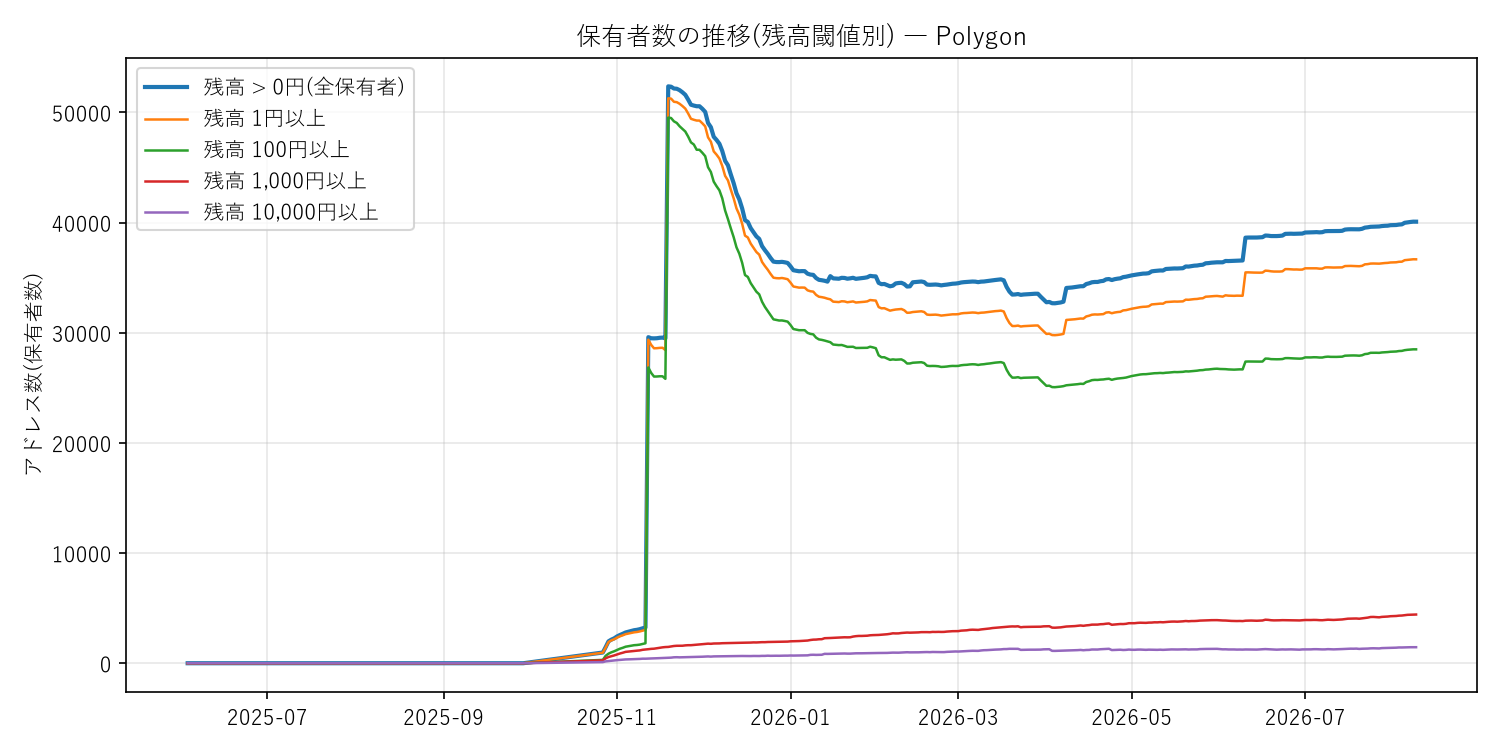
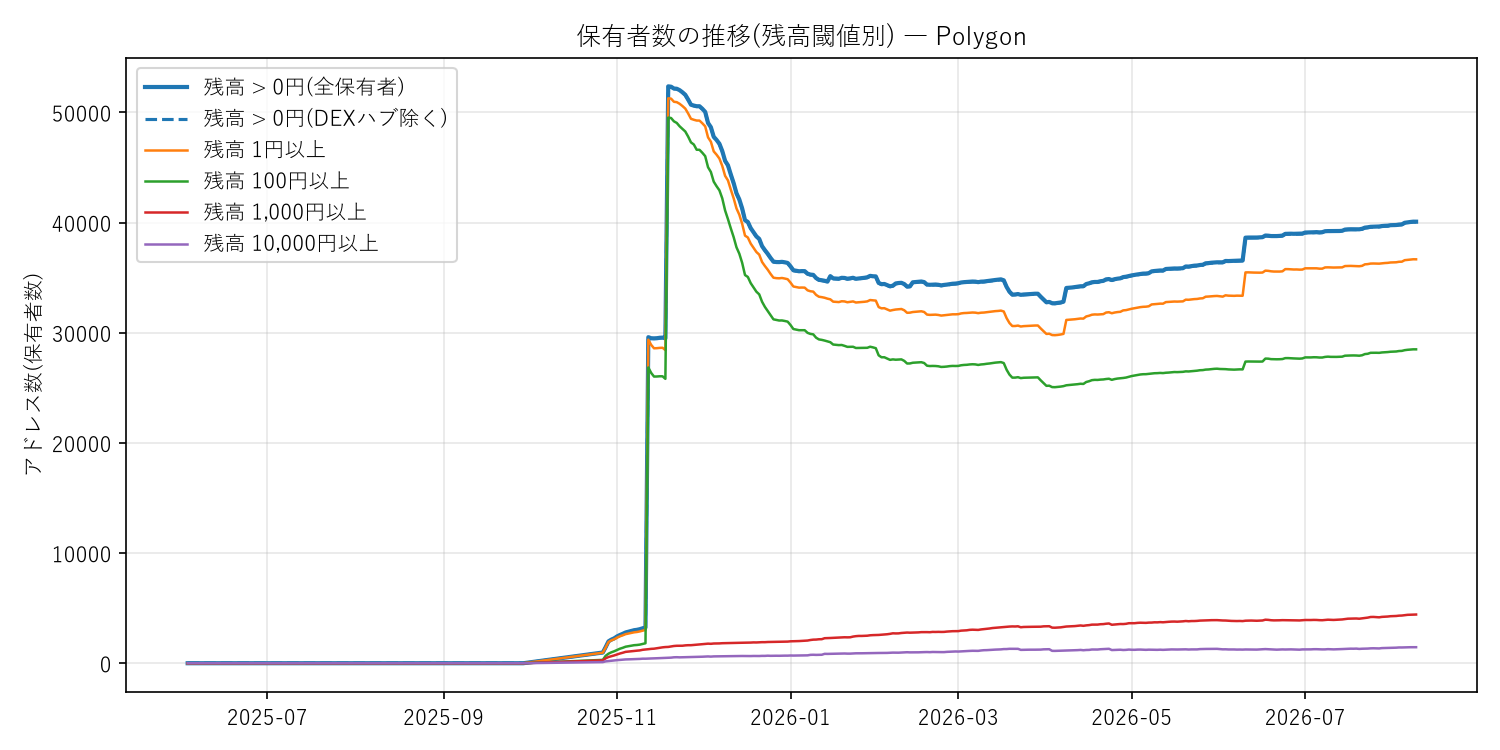
ダッシュボード・グラフにDEXハブ除外(_ex_hub)版を併記
これまでindex.html/analyze.pyはいずれも無印カラム(DEXハブ含む)
のみを参照しており、DEXハブ除外の変更が表示に反映されていな
かった。トグルUIは実装コストが高いため、まずは軽量な対応として
主要指標に限り両系列を併記する形にした。

- analyze.py: 保有者数(図01)・新規獲得/離脱(図02)・集中度(図05)・
  流通量(図06)・アクティブアドレス数(図07)に、無印(実線)と
  DEXハブ除外版(同色破線)を重ねて表示
- index.html: スナップショット欄の「流通量」「ホルダー数」に
  DEXハブ除外版を括弧書きで補足表示
- panel_builder.py: build_summary()がcirculating_supply_ex_hub /
  holders_gt0_ex_hubをsummary_{scope}.jsonに出力するよう対応

あわせて、図03・04(保有階層別構成比)でc.startswith("n_")/
"val_"が新設した_ex_hub列も誤って拾い、10系列が混在して比率が
壊れていたバグを修正(無印5系列のみに限定)。

Changed region(s): [[0.092, 0.1227, 0.3067, 0.3373], [0.092, 0.1533, 0.1227, 0.2453]]

diff --git a/index.html b/index.html
@@ -219,6 +219,11 @@ function wowHtml(pct) {
   return `<span class="sub ${cls}">先週比: ${sign}${v.toFixed(1)}%</span>`;
 }
 
+function exHubHtml(value, fmtFn) {
+  if (value === null || value === undefined) return "";
+  return `<div class="sub" style="color:var(--muted)">DEXハブ除く: ${fmtFn(value)}</div>`;
+}
+
 function statTile(label, value, sub, title) {
   return `<div class="stat" title="${title || ""}">
     <div class="label">${label}</div>
@@ -261,12 +266,14 @@ async function render(scope) {
     asofEl.textContent = `最終データ日: ${s.date}`;
 
     statsEl.innerHTML = [
-      statTile("流通量", fmtYen(s.circulating_supply), wowHtml(s.circulating_supply_wow_pct),
-                "今、実際に出回っているJPYCの総量(発行量−償還量)"),
+      statTile("流通量", fmtYen(s.circulating_supply),
+                wowHtml(s.circulating_supply_wow_pct) + exHubHtml(s.circulating_supply_ex_hub, fmtYen),
+                "今、実際に出回っているJPYCの総量(発行量−償還量)。「DEXハブ除く」はDEXルーター/プール等(取引の中継点、実ユーザーではない)自体の保有分を除いた値"),
       statTile("累計発行量", fmtYen(s.cumulative_mint_volume), "",
                 "これまでに発行されたJPYCの合計額(償還分を含む)"),
-      statTile("ホルダー数 (>0円)", fmtInt(s.holders_gt0), wowHtml(s.holders_gt0_wow_pct),
-                "1円でもJPYCを持っているアドレスの数"),
+      statTile("ホルダー数 (>0円)", fmtInt(s.holders_gt0),
+                wowHtml(s.holders_gt0_wow_pct) + exHubHtml(s.holders_gt0_ex_hub, fmtInt),
+                "1円でもJPYCを持っているアドレスの数。「DEXハブ除く」はDEXルーター/プール等自体を除いた実ユーザー数"),
       statTile("うち >=100円", fmtInt(s.holders_ge100), "", "残高100円以上のアドレス数(ごく少額のダストを除く)"),
       statTile("うち >=1,000円", fmtInt(s.holders_ge1000), "", "残高1,000円以上のアドレス数"),
       statTile("うち >=1万円", fmtInt(s.holders_ge10000), "", "残高1万円以上のアドレス数"),

diff --git a/analyze.py b/analyze.py
@@ -153,7 +153,10 @@ def main():
 
     # 1. ホルダー数(ダスト感度バンド) — ダスト保有者を除いた実質的な保有者数の分解
     fig, ax = plt.subplots(figsize=(10, 5))
-    ax.plot(p.date, p.holders_gt0, label="残高 > 0円(全保有者)", lw=2)
+    line, = ax.plot(p.date, p.holders_gt0, label="残高 > 0円(全保有者)", lw=2)
+    if "holders_gt0_ex_hub" in p:
+        ax.plot(p.date, p.holders_gt0_ex_hub, label="残高 > 0円(DEXハブ除く)",
+                lw=1.5, ls="--", color=line.get_color())
     for t in DUST_THRESHOLDS:
         col = f"holders_ge{int(t)}"
         if col in p:
@@ -163,19 +166,26 @@ def main():
     annotate_events(ax, events, x_min, x_max)
     save(fig, "01_holders_dust_sensitivity.png", fig_dir)
 
-    # 2. 新規獲得 vs 離脱(7日移動平均)
+    # 2. 新規獲得 vs 離脱(7日移動平均、実線=全体、破線=DEXハブ除く)
     fig, ax = plt.subplots(figsize=(10, 5))
-    ax.plot(p.date, p.new_addresses.rolling(7).mean(), label="新規獲得(7日移動平均)")
-    ax.plot(p.date, p.zeroed_addresses.rolling(7).mean(), label="離脱(7日移動平均)")
-    ax.plot(p.date, p.resurrected_addresses.rolling(7).mean(),
-            label="再保有(7日移動平均)", alpha=.7)
+    for col, col_ex, label, kw in [
+        ("new_addresses", "new_addresses_ex_hub", "新規獲得(7日移動平均)", {}),
+        ("zeroed_addresses", "zeroed_addresses_ex_hub", "離脱(7日移動平均)", {}),
+        ("resurrected_addresses", "resurrected_addresses_ex_hub", "再保有(7日移動平均)", {"alpha": .7}),
+    ]:
+        line, = ax.plot(p.date, p[col].rolling(7).mean(), label=label, **kw)
+        if col_ex in p:
+            ax.plot(p.date, p[col_ex].rolling(7).mean(), label=f"{label.replace('(7日移動平均)','')}(DEXハブ除く、7日移動平均)",
+                    lw=1.2, ls="--", color=line.get_color())
     ax.set_title(f"新規獲得アドレス数と離脱アドレス数の推移 ― {scope_label}")
     ax.set_ylabel("アドレス数/日"); ax.legend(); ax.grid(alpha=.3)
     annotate_events(ax, events, x_min, x_max)
     save(fig, "02_new_vs_churn.png", fig_dir)
 
     # 3. 保有分布(ホルダー数構成比)の推移
-    bucket_cols = [c for c in p.columns if c.startswith("n_")]
+    # "n_"で始まる列にはDEXハブ除外版(_ex_hubサフィックス)も含まれるため、
+    # 無印(全体)の5系列だけに絞る。
+    bucket_cols = [c for c in p.columns if c.startswith("n_") and not c.endswith("_ex_hub")]
     shares = p[bucket_cols].div(p["holders_gt0"], axis=0)
     fig, ax = plt.subplots(figsize=(10, 5))
     ax.stackplot(p.date, [shares[c] for c in bucket_cols],
@@ -186,7 +196,7 @@ def main():
     save(fig, "03_holder_buckets.png", fig_dir)
 
     # 4. 金額ベースの分布(どの層が価値を保有しているか)
-    val_cols = [c for c in p.columns if c.startswith("val_")]
+    val_cols = [c for c in p.columns if c.startswith("val_") and not c.endswith("_ex_hub")]
     vshares = p[val_cols].div(p["circulating_supply"], axis=0)
     fig, ax = plt.subplots(figsize=(10, 5))
     ax.stackplot(p.date, [vshares[c] for c in val_cols],
@@ -196,11 +206,17 @@ def main():
     ax.legend(loc="lower left", fontsize=8); ax.grid(alpha=.3)
     save(fig, "04_value_buckets.png", fig_dir)
 
-    # 5. 集中度
+    # 5. 集中度(実線=全体、破線=DEXハブ除く。同じ色で対応関係を示す)
     fig, ax = plt.subplots(figsize=(10, 5))
-    ax.plot(p.date, p.gini, label="Gini係数")
-    ax.plot(p.date, p.top10_share, label="上位10アドレスの保有シェア")
-    ax.plot(p.date, p.top100_share, label="上位100アドレスの保有シェア")
+    for col, col_ex, label in [
+        ("gini", "gini_ex_hub", "Gini係数"),
+        ("top10_share", "top10_share_ex_hub", "上位10アドレスの保有シェア"),
+        ("top100_share", "top100_share_ex_hub", "上位100アドレスの保有シェア"),
+    ]:
+        line, = ax.plot(p.date, p[col], label=label)
+        if col_ex in p:
+            ax.plot(p.date, p[col_ex], label=f"{label}(DEXハブ除く)",
+                    lw=1.2, ls="--", color=line.get_color())
     ax.set_title(f"保有集中度の推移 ― {scope_label}"); ax.set_ylim(0, 1)
     ax.legend(); ax.grid(alpha=.3)
     annotate_events(ax, events, x_min, x_max)
@@ -210,7 +226,10 @@ def main():
     fig, ax = plt.subplots(figsize=(10, 5))
     ax.plot(p.date, p.mint_volume.cumsum(), label="累積ミント量(新規発行)")
     ax.plot(p.date, p.burn_volume.cumsum(), label="累積バーン量(償却)")
-    ax.plot(p.date, p.circulating_supply, label="流通量", lw=2)
+    line, = ax.plot(p.date, p.circulating_supply, label="流通量", lw=2)
+    if "circulating_supply_ex_hub" in p:
+        ax.plot(p.date, p.circulating_supply_ex_hub, label="流通量(DEXハブ除く)",
+                lw=1.5, ls="--", color=line.get_color())
     ax.set_title(f"ミント・バーン・流通量の累積推移 ― {scope_label}")
     ax.set_ylabel("JPYC"); ax.legend(); ax.grid(alpha=.3)
     annotate_events(ax, events, x_min, x_max)
@@ -219,8 +238,12 @@ def main():
     # 7. アクティビティ
     fig, ax = plt.subplots(figsize=(10, 5))
     ax.plot(p.date, p.transfers.rolling(7).mean(), label="送金件数(7日移動平均)")
-    ax.plot(p.date, p.active_addresses.rolling(7).mean(),
-            label="アクティブアドレス数(7日移動平均)")
+    line, = ax.plot(p.date, p.active_addresses.rolling(7).mean(),
+                    label="アクティブアドレス数(7日移動平均)")
+    if "active_addresses_ex_hub" in p:
+        ax.plot(p.date, p.active_addresses_ex_hub.rolling(7).mean(),
+                label="アクティブアドレス数(DEXハブ除く、7日移動平均)",
+                lw=1.5, ls="--", color=line.get_color())
     ax.set_title(f"アクティビティの推移 ― {scope_label}"); ax.legend(); ax.grid(alpha=.3)
     annotate_events(ax, events, x_min, x_max)
     save(fig, "07_activity.png", fig_dir)

diff --git a/panel_builder.py b/panel_builder.py
@@ -113,7 +113,7 @@ def build_summary(panel):
             return None
         return float((last[col] - pv) / pv)
 
-    return {
+    summary = {
         "date": str(last["date"]),
         "circulating_supply": float(last["circulating_supply"]),
         "circulating_supply_wow_pct": wow_pct("circulating_supply"),
@@ -126,6 +126,13 @@ def build_summary(panel):
         "holders_ge1000000": int(last.get("n_ge_1m", 0)),
         "total_participants": int(panel["new_addresses"].sum()),
     }
+    # DEXハブ除外版(dex_hub_addresses.csvがあるスコープのみ列が存在する)。
+    # ダッシュボードのスナップショット欄で「無印(括弧内: DEXハブ除く)」と補足表示するため。
+    if "circulating_supply_ex_hub" in panel.columns:
+        summary["circulating_supply_ex_hub"] = float(last["circulating_supply_ex_hub"])
+    if "holders_gt0_ex_hub" in panel.columns:
+        summary["holders_gt0_ex_hub"] = int(last["holders_gt0_ex_hub"])
+    return summary
 
 
 # ---------------------------------------------------------------- core build
